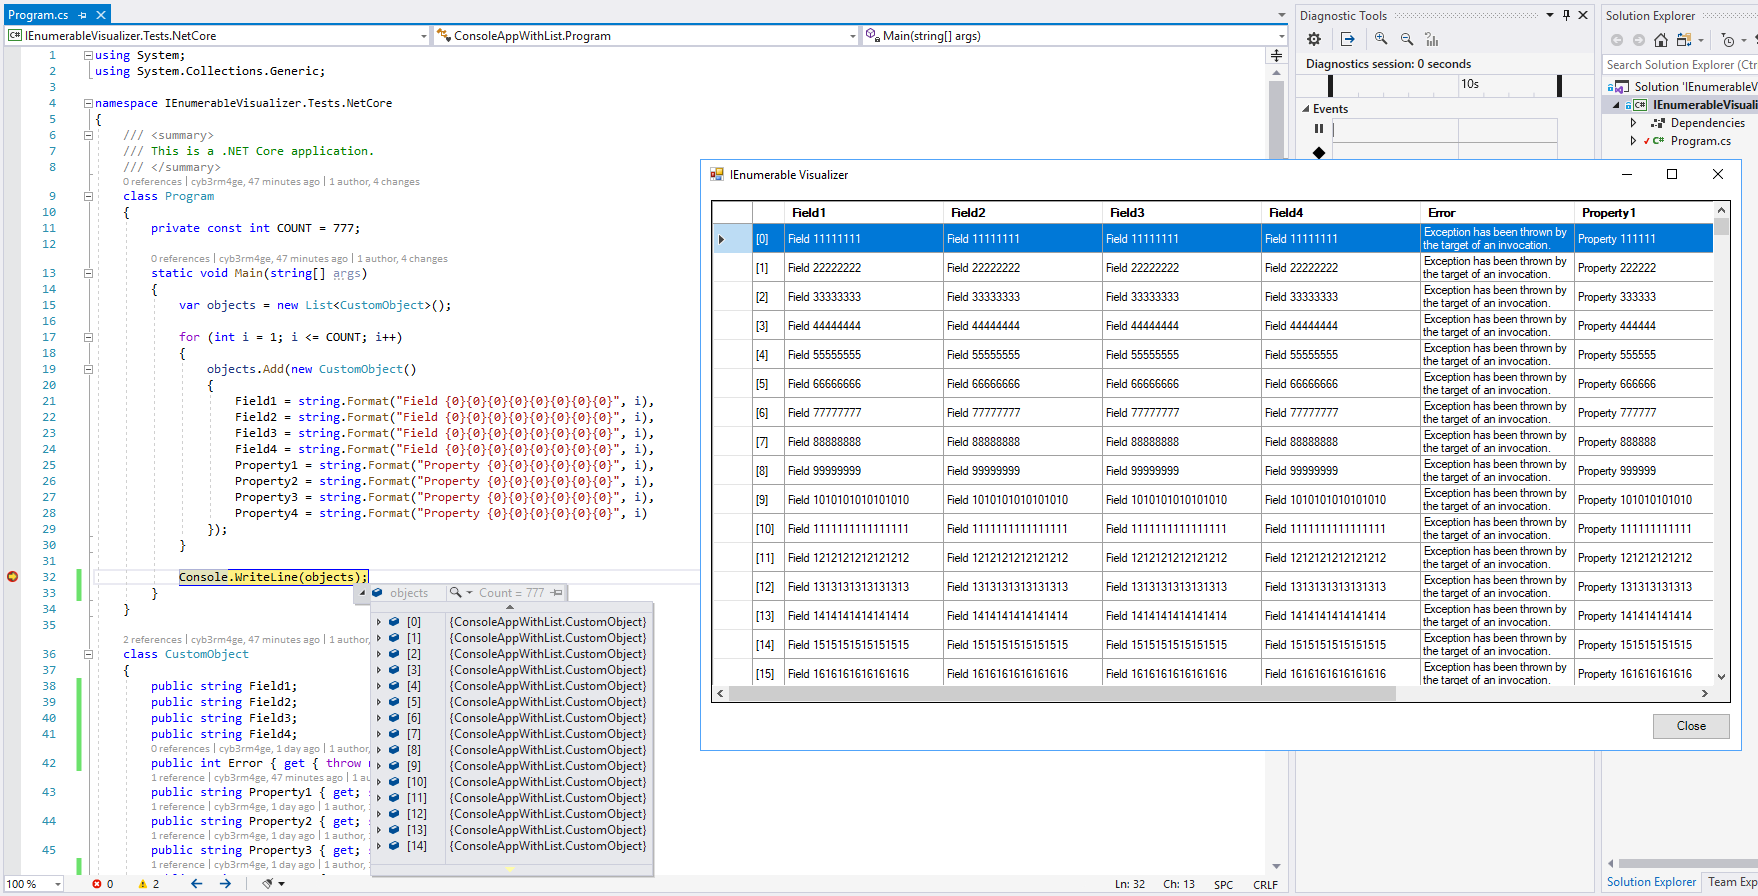
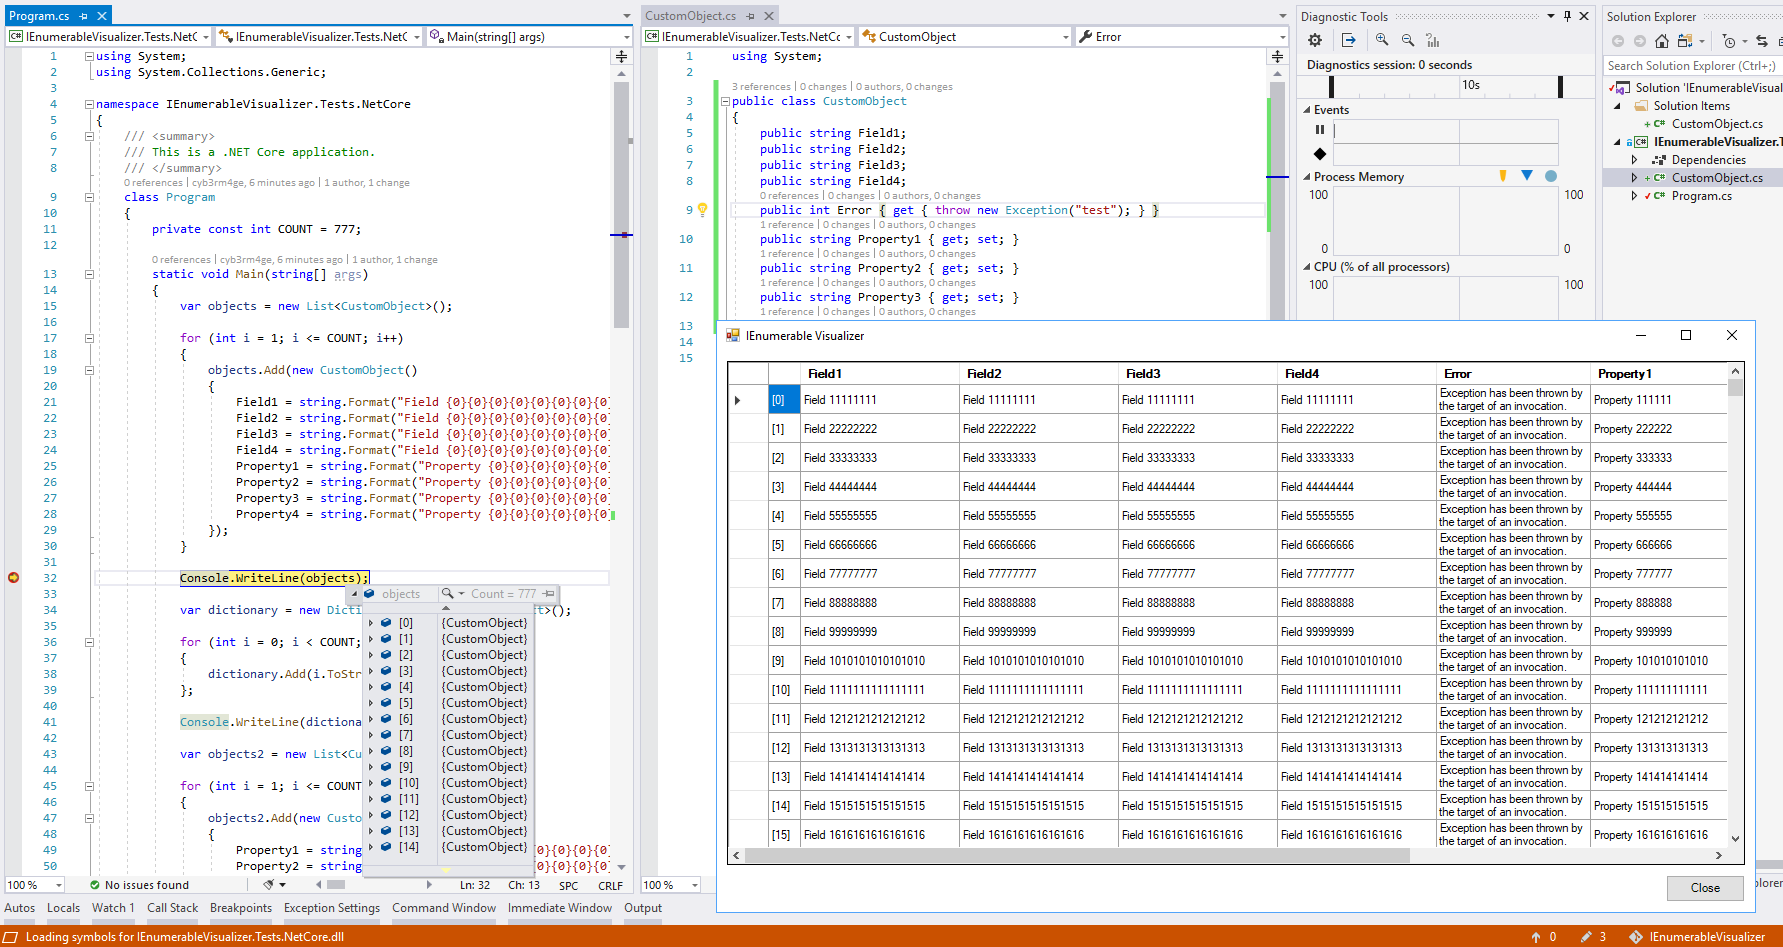
update preview

Changed region(s): [[0.0, 0.0, 1.0, 1.0]]

diff --git a/IEnumerableVisualizer.Tests.NetCore/Program.cs b/IEnumerableVisualizer.Tests.NetCore/Program.cs
@@ -87,19 +87,6 @@ namespace IEnumerableVisualizer.Tests.NetCore
         }
     }
 
-    class CustomObject
-    {
-        public string Field1;
-        public string Field2;
-        public string Field3;
-        public string Field4;
-        public int Error { get { throw new Exception("test"); } }
-        public string Property1 { get; set; }
-        public string Property2 { get; set; }
-        public string Property3 { get; set; }
-        public string Property4 { get; set; }
-    }
-
     class CustomObjectNoFields
     {
         public string Property1 { get; set; }

diff --git a/IEnumerableVisualizer.Tests.NetCore/CustomObject.cs b/IEnumerableVisualizer.Tests.NetCore/CustomObject.cs
@@ -1,0 +1,14 @@
+using System;
+
+public class CustomObject
+{
+    public string Field1;
+    public string Field2;
+    public string Field3;
+    public string Field4;
+    public int Error { get { throw new Exception("test"); } }
+    public string Property1 { get; set; }
+    public string Property2 { get; set; }
+    public string Property3 { get; set; }
+    public string Property4 { get; set; }
+}
